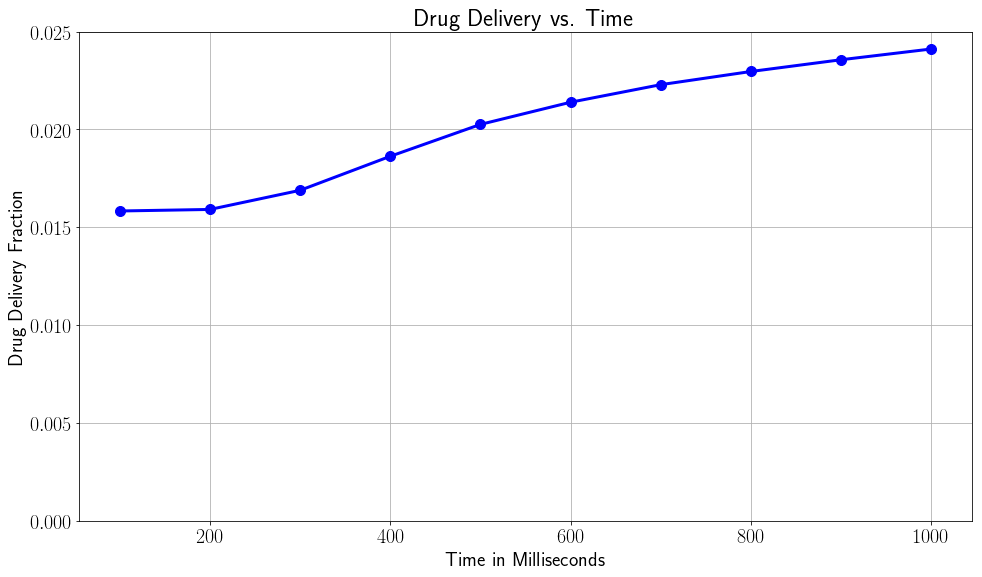
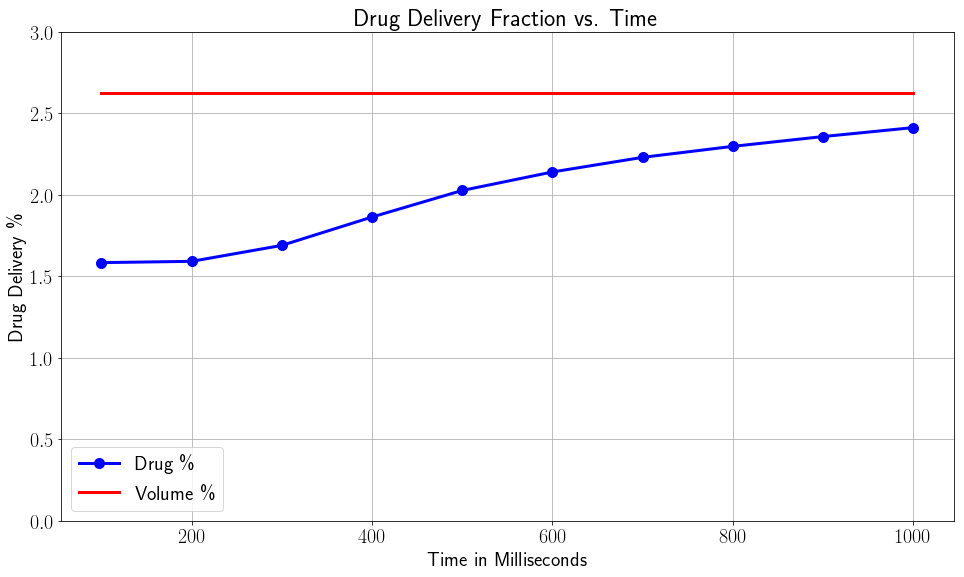
updated drug plots

diff --git a/project2/rbc.py b/project2/rbc.py
@@ -71,8 +71,32 @@ def drug_delivery(frame_num):
     drug_tot = np.sum(drug)
     return (drug_sten, drug_tot)
 
+def calc_drug(frame_nums):
+    """Compute the drug quantity (stenotic and total) at each frame"""
+    # Number of frame
+    frame_count = len(frame_nums)
+    # Preallocate storage for drug in stenotic region and whole system
+    drug_sten = np.zeros(frame_count)
+    drug_tot = np.zeros(frame_count)
+
+    # Compute drug at each available frame and save it to arrays
+    for i, frame_num in enumerate(frame_nums):
+        # Drug delivery for this frame
+        sten, tot = drug_delivery(frame_num)
+        # Save to two arrays
+        drug_tot[i] = tot
+        drug_sten[i] = sten
+    
+    # Compute the drug fraction in the stenotic region
+    drug_frac = drug_sten / drug_tot
+    
+    return drug_sten, drug_tot, drug_frac
+
 def plot_drug(drug_tot, drug_frac, frame_time):
     """Create two plots with drug quantity over time"""
+    # Compute volume fraction in the stenotic region
+    vol_frac = vol_sten / vol_tot
+    
     # Plot 1: Total Drug in System (Quality Check)
     fig, ax = plt.subplots(figsize=[16,9])
     ax.set_title('Total Drug vs. Time')
@@ -87,12 +111,16 @@ def plot_drug(drug_tot, drug_frac, frame_time):
         
     # Plot 2: Fraction of Drug Delivered
     fig, ax = plt.subplots(figsize=[16,9])
-    ax.set_title('Drug Delivery vs. Time')
+    ax.set_title('Drug Delivery Fraction vs. Time')
     ax.set_xlabel('Time in Milliseconds')
-    ax.set_ylabel('Drug Delivery Fraction')
-    ax.set_ylim(0.00, 0.025)
-    ax.plot(frame_time, drug_frac, color='b', linewidth=3.0, marker='o', markersize=10, label='Drug Fraction')
+    ax.set_ylabel('Drug Delivery \%')
+    ax.set_ylim(0.0, 3.0)
+    ax.plot(frame_time, drug_frac*100, color='b', linewidth=3.0, marker='o', markersize=10, label='Drug \%')
+    # second series is a baseline; what fraction of the volume is in the stenotic region?
+    vol_frac_vec = vol_frac*100*np.ones_like(frame_time)
+    ax.plot(frame_time, vol_frac_vec, color='r', linewidth=3.0,label='Volume \%')
     ax.grid()
+    ax.legend()
     # Save figure
     fname_frac = os.path.join(dir_fig, 'drug_frac.png')
     fig.savefig(fname_frac, bbox_inches='tight')
@@ -132,8 +160,14 @@ x = cell_pos[:, 0]
 y = cell_pos[:, 1]
 z = cell_pos[:, 2]
 
+# Total volume of the simulation
+vol_tot = np.sum(cell_vol)
+
 # Mask for stenotic region
 mask_sten = (sten_beg <= z) & (z < sten_end)
+
+# Volume in the stenotic region
+vol_sten = np.sum(cell_vol[mask_sten])
 
 # List of available frames
 frame_nums = frames_avail(dir_np)
@@ -145,18 +179,14 @@ frame_count = len(frame_nums)
 # Set plot style
 plot_style()
 
-# Compute the drug quantity (stenotic and total) at each frame
-drug_sten = np.zeros(frame_count)
-drug_tot = np.zeros(frame_count)
-for i, frame_num in enumerate(frame_nums):
-    # Drug delivery for this frame
-    sten, tot = drug_delivery(frame_num)
-    # Save to two arrays
-    drug_tot[i] = tot
-    drug_sten[i] = sten
-
-# Compute the drug fraction
-drug_frac = drug_sten / drug_tot
+# Calculate drug quantity vs. time
+drug_sten, drug_tot, drug_frac = calc_drug(frame_nums)
 
 # Plot the total amount of drug and delivery fraction vs. timef
 plot_drug(drug_tot, drug_frac, frame_time)
+
+# Status update
+d_min = np.min(drug_tot)
+d_max = np.max(drug_tot)
+d_chng_pct = (d_max - d_min) / d_min * 100
+print(f'Change in total drug quantity over simulation: {d_chng_pct:0.2f}%')
